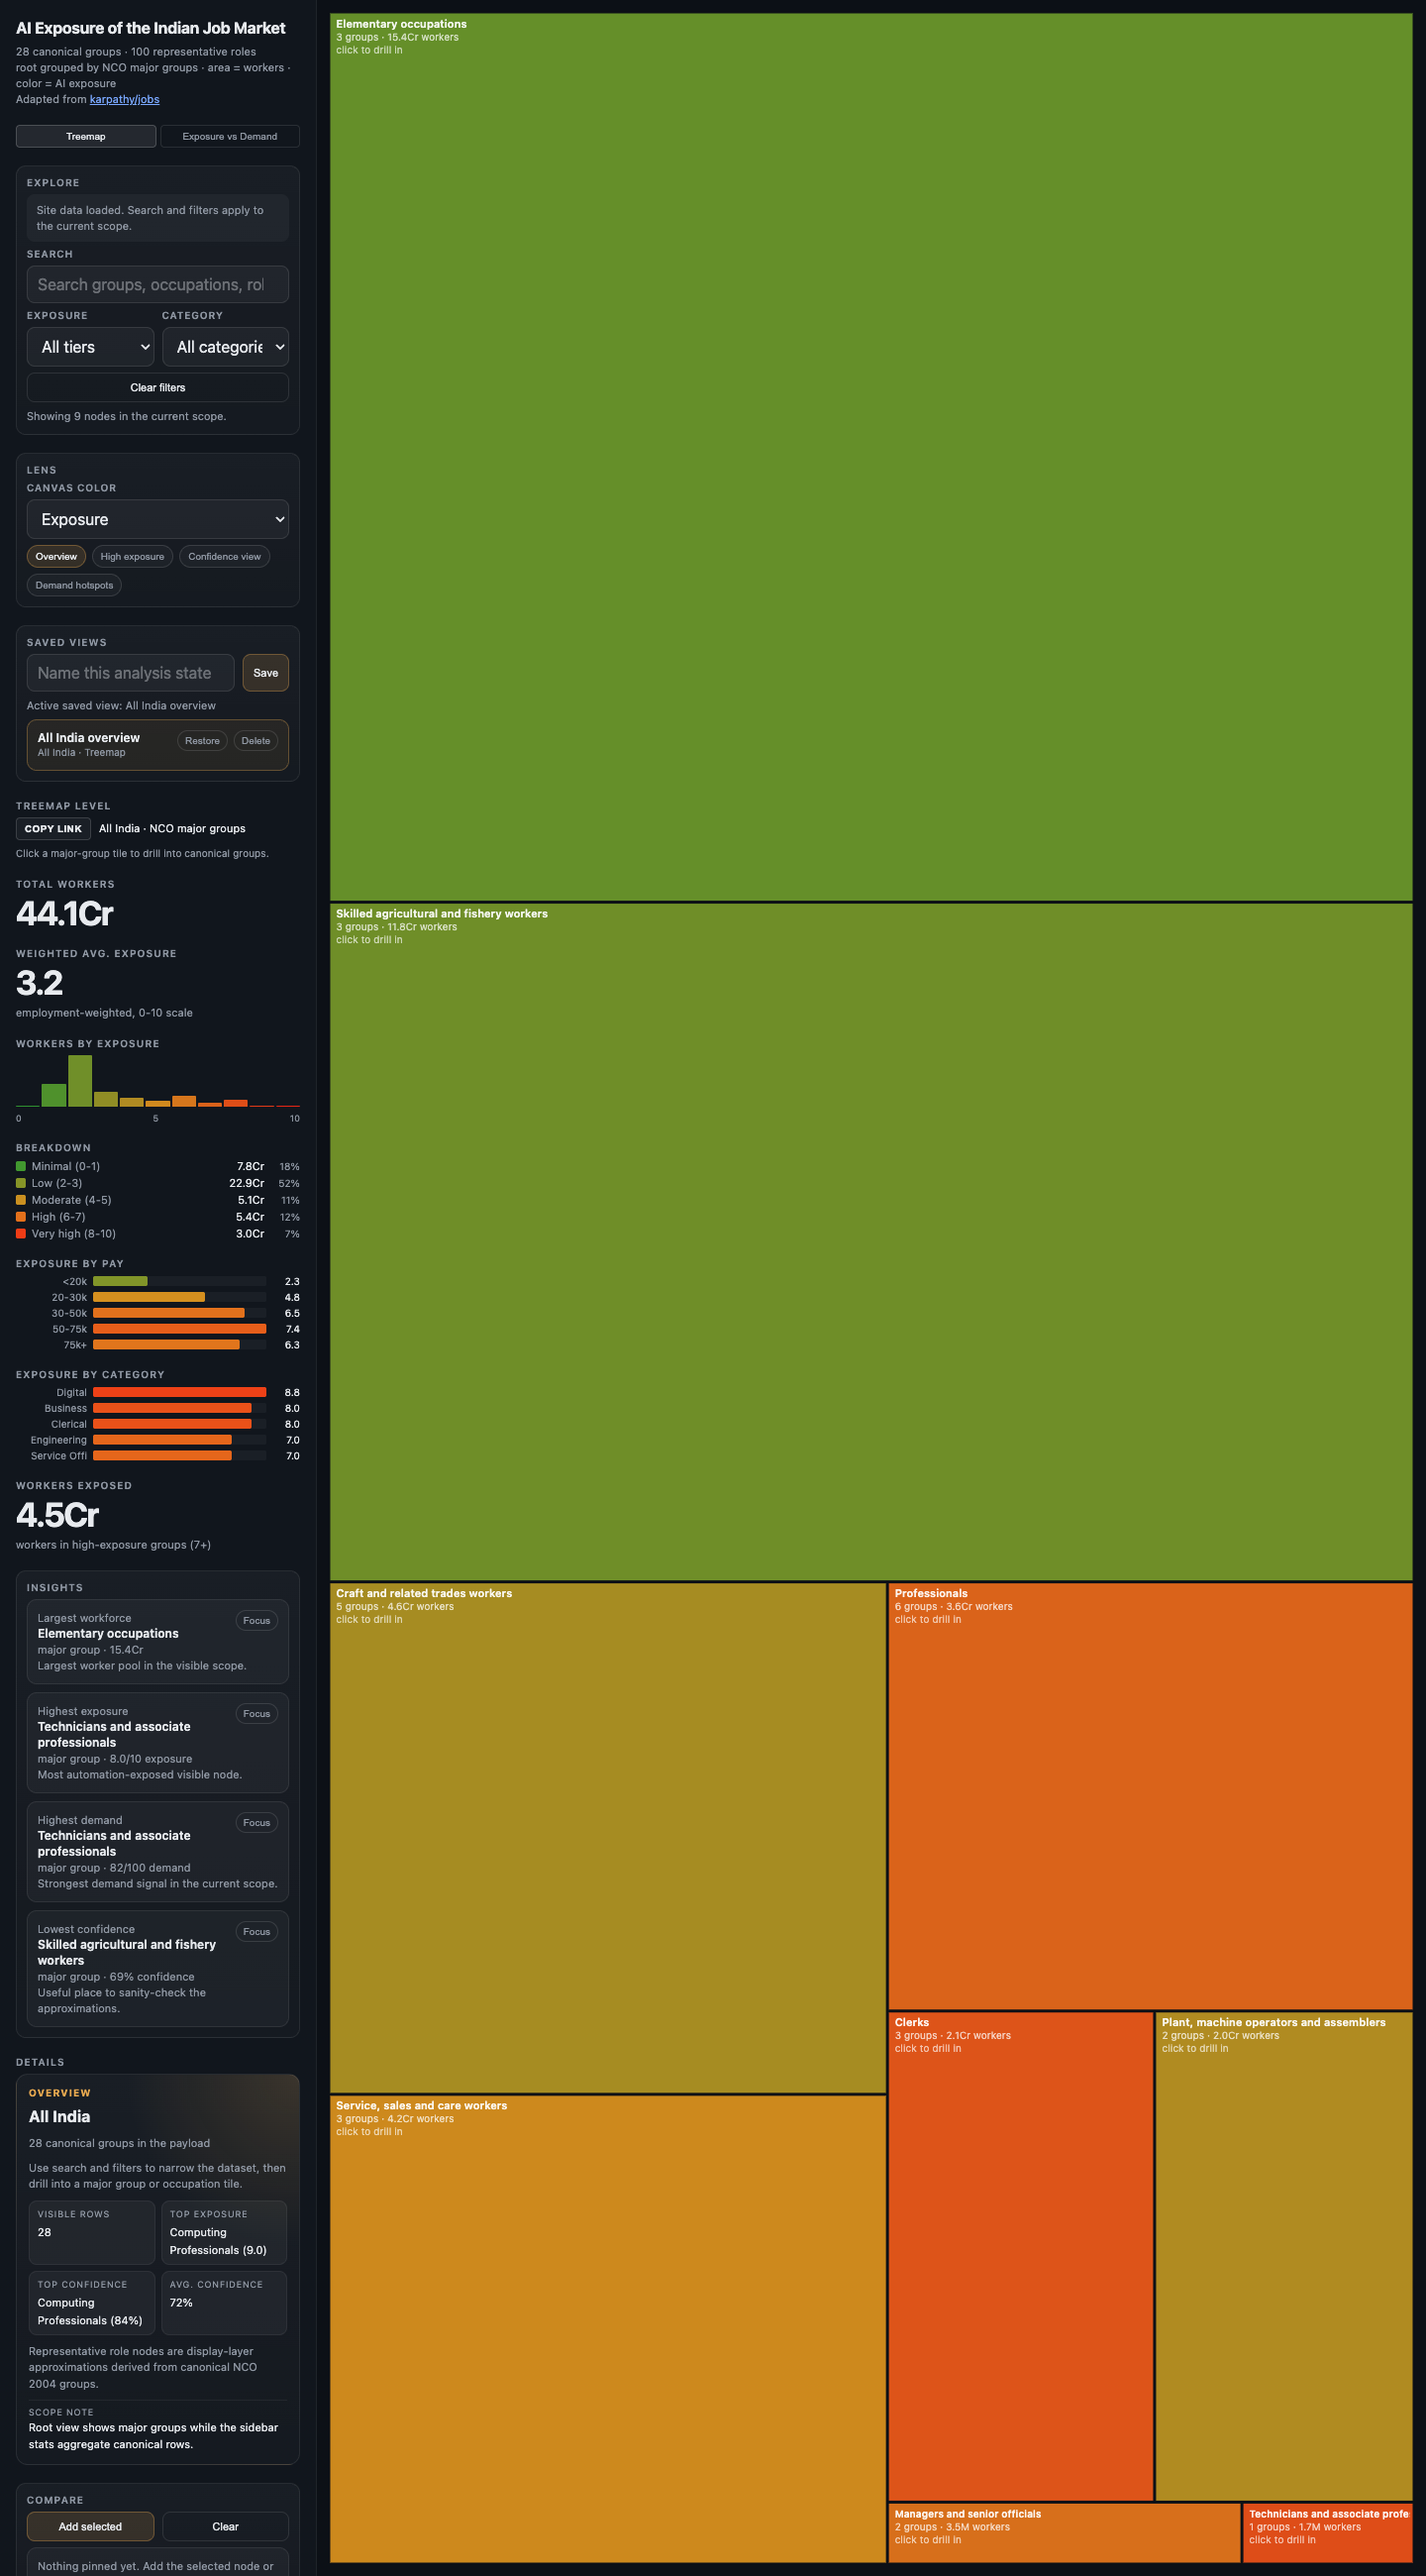
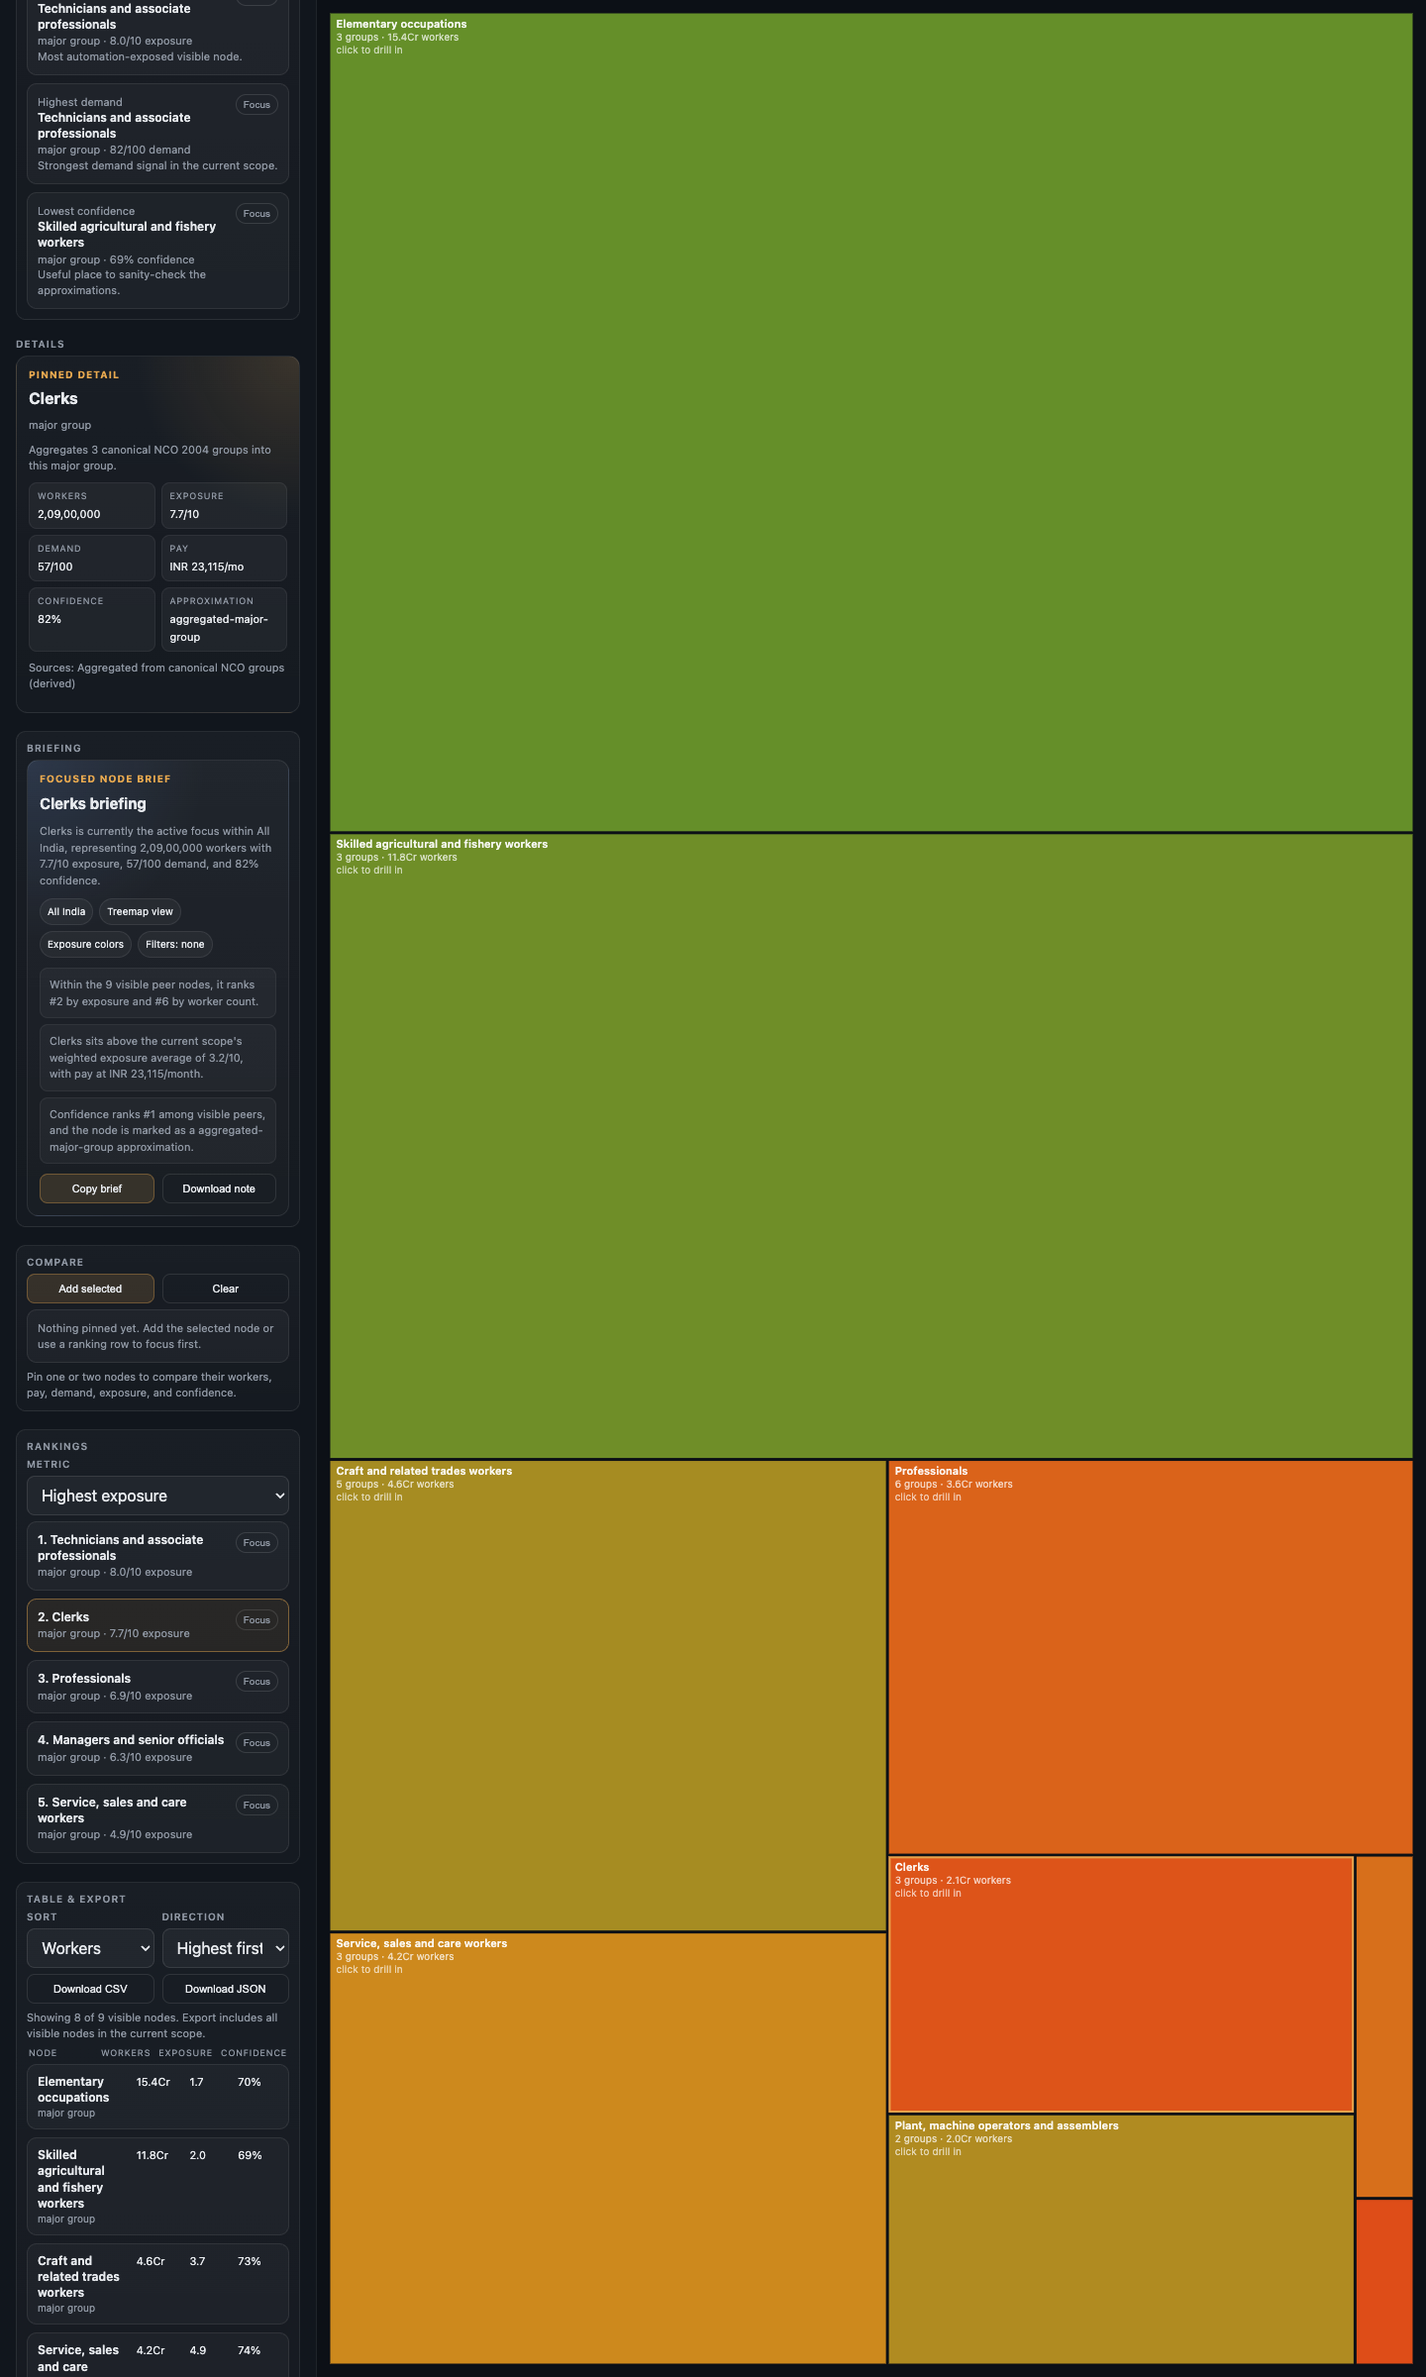
Add downloadable briefing notes to the site

diff --git a/site/index.html b/site/index.html
@@ -245,6 +245,60 @@ a { color: #79a7ff; }
   gap: 6px;
 }
 
+.briefing-card {
+  display: flex;
+  flex-direction: column;
+  gap: 10px;
+  padding: 12px;
+  border-radius: 12px;
+  border: 1px solid rgba(255,255,255,0.08);
+  background:
+    radial-gradient(circle at top left, rgba(121,167,255,0.14), transparent 34%),
+    linear-gradient(180deg, rgba(255,255,255,0.035), rgba(255,255,255,0.015));
+}
+
+.briefing-title {
+  font-size: 15px;
+  line-height: 1.3;
+  font-weight: 700;
+}
+
+.briefing-copy,
+.briefing-points,
+.briefing-meta {
+  font-size: 11px;
+  line-height: 1.5;
+  color: var(--fg2);
+}
+
+.briefing-points {
+  display: flex;
+  flex-direction: column;
+  gap: 6px;
+}
+
+.briefing-point {
+  padding: 8px 9px;
+  border-radius: 8px;
+  background: rgba(255,255,255,0.035);
+  border: 1px solid rgba(255,255,255,0.06);
+}
+
+.briefing-meta {
+  display: flex;
+  flex-wrap: wrap;
+  gap: 6px;
+}
+
+.briefing-chip {
+  padding: 5px 7px;
+  border-radius: 999px;
+  background: rgba(255,255,255,0.04);
+  border: 1px solid rgba(255,255,255,0.08);
+  color: var(--fg);
+  font-size: 10px;
+}
+
 .stat-big {
   font-size: 34px;
   line-height: 1;
@@ -906,6 +960,21 @@ canvas#canvas {
   </div>
 
   <div class="section section-card">
+    <h3>Briefing</h3>
+    <div class="briefing-card" id="briefingCard">
+      <div class="detail-kicker" id="briefingKicker">Auto-generated brief</div>
+      <div class="briefing-title" id="briefingTitle">Preparing briefing…</div>
+      <div class="briefing-copy" id="briefingSummary">Waiting for the site payload.</div>
+      <div class="briefing-meta" id="briefingMeta"></div>
+      <div class="briefing-points" id="briefingPoints"></div>
+      <div class="action-row">
+        <button class="ghost-button accent" id="copyBriefing">Copy brief</button>
+        <button class="ghost-button" id="downloadBriefing">Download note</button>
+      </div>
+    </div>
+  </div>
+
+  <div class="section section-card">
     <h3>Compare</h3>
     <div class="action-row">
       <button class="ghost-button accent" id="addToCompare">Add selected</button>
@@ -1426,6 +1495,17 @@ function confidencePct(node) {
   return `${Math.round((node.exposure_confidence || 0) * 100)}%`;
 }
 
+function pct(numerator, denominator) {
+  if (!denominator) return "0%";
+  return `${Math.round((numerator / denominator) * 100)}%`;
+}
+
+function rankForMetric(node, metric, rows) {
+  const ordered = rows.slice().sort((a, b) => metricValue(b, metric) - metricValue(a, metric));
+  const index = ordered.findIndex(item => item.node_id === node.node_id);
+  return index >= 0 ? index + 1 : null;
+}
+
 function renderOverviewDetails() {
   const detailKicker = document.getElementById("detailKicker");
   const detailTitle = document.getElementById("detailTitle");
@@ -1534,6 +1614,10 @@ function renderDetails() {
   renderNodeDetails(node);
 }
 
+function briefingContextNode() {
+  return selectedNode() || currentScopeNode() || null;
+}
+
 function metricValue(node, metric) {
   if (metric === "workers") return node.employment_workers || 0;
   if (metric === "demand") return node.demand_index || 0;
@@ -1546,6 +1630,122 @@ function metricLabel(node, metric) {
   if (metric === "demand") return `${node.demand_index}/100 demand`;
   if (metric === "confidence") return `${confidencePct(node)} confidence`;
   return `${node.exposure.toFixed(1)}/10 exposure`;
+}
+
+function scopeDescriptionText() {
+  const scope = currentScopeNode();
+  if (!scope) return "All India";
+  return `All India / ${pathNodes().map(node => node.title).join(" / ")}`;
+}
+
+function activeFilterSummary() {
+  const bits = [];
+  if (searchQuery) bits.push(`search=${searchQuery}`);
+  if (exposureFilter) bits.push(`exposure=${exposureFilter}`);
+  if (categoryFilter) bits.push(`category=${categoryFilter}`);
+  return bits.length ? bits.join(", ") : "none";
+}
+
+function briefingData() {
+  const focus = briefingContextNode();
+  const rows = statsRows();
+  const visibleNodes = currentDisplayNodes();
+  const totalWorkers = rows.reduce((sum, row) => sum + (row.employment_workers || 0), 0);
+  const weightedExposure = weightedAverage(rows, "exposure");
+  const weightedConfidence = weightedAverage(rows, "exposure_confidence");
+  const highExposureWorkers = rows.filter(row => row.exposure >= 7).reduce((sum, row) => sum + (row.employment_workers || 0), 0);
+  const topExposure = topNodeBy(rows, "exposure");
+  const topDemand = topNodeBy(rows, "demand");
+  const lowConfidence = rows.slice().sort((a, b) => (a.exposure_confidence || 0) - (b.exposure_confidence || 0))[0] || null;
+  const compareRows = compareIds.map(id => nodesById.get(id)).filter(Boolean);
+  const chips = [
+    scopeDescriptionText(),
+    currentView === "scatter" ? "Scatter view" : "Treemap view",
+    colorMode === "confidence" ? "Confidence colors" : "Exposure colors",
+    `Filters: ${activeFilterSummary()}`
+  ];
+
+  if (!focus) {
+    const summary = `This view covers ${rows.length} visible records representing ${fmtWorkersLong(totalWorkers)} workers with an employment-weighted AI exposure of ${weightedExposure.toFixed(1)}/10.`;
+    const bullets = [
+      highExposureWorkers
+        ? `${fmtWorkers(highExposureWorkers)} workers, or ${pct(highExposureWorkers, totalWorkers)}, sit in nodes rated 7+ for exposure in the current view.`
+        : "No workers are currently visible in 7+ exposure nodes.",
+      topExposure && topDemand
+        ? `${topExposure.title} is the most exposed visible node at ${topExposure.exposure.toFixed(1)}/10, while ${topDemand.title} carries the strongest demand signal at ${topDemand.demand_index}/100.`
+        : "No top-node comparisons are available for the current view.",
+      lowConfidence
+        ? `Average confidence is ${Math.round(weightedConfidence * 100)}%, and ${lowConfidence.title} is the weakest-confidence visible node at ${confidencePct(lowConfidence)}.`
+        : `Average confidence is ${Math.round(weightedConfidence * 100)}% in the current view.`,
+    ];
+    return {
+      kicker: activeFilterCount() ? "Filtered scope brief" : "Root scope brief",
+      title: currentScopeNode() ? `${currentScopeNode().title} snapshot` : "All India snapshot",
+      summary,
+      bullets,
+      chips,
+    };
+  }
+
+  const siblingRows = currentDisplayNodes();
+  const exposureRank = rankForMetric(focus, "exposure", siblingRows);
+  const workersRank = rankForMetric(focus, "workers", siblingRows);
+  const confidenceRank = rankForMetric(focus, "confidence", siblingRows);
+  const scopeAvgExposure = weightedAverage(rows, "exposure");
+  const compareLine = compareRows.length === 2
+    ? `${compareRows[0].title} vs ${compareRows[1].title} is pinned separately in Compare.`
+    : null;
+  const summary = `${focus.title} is currently the active focus within ${scopeDescriptionText()}, representing ${fmtWorkersLong(focus.employment_workers)} workers with ${focus.exposure.toFixed(1)}/10 exposure, ${focus.demand_index}/100 demand, and ${confidencePct(focus)} confidence.`;
+  const bullets = [
+    exposureRank && workersRank
+      ? `Within the ${siblingRows.length} visible peer nodes, it ranks #${exposureRank} by exposure and #${workersRank} by worker count.`
+      : "Peer ranking is unavailable in the current filtered view.",
+    `${focus.title} sits ${focus.exposure >= scopeAvgExposure ? "above" : "below"} the current scope's weighted exposure average of ${scopeAvgExposure.toFixed(1)}/10, with pay at ${fmtInr(focus.median_monthly_earnings_inr)}/month.`,
+    confidenceRank
+      ? `Confidence ranks #${confidenceRank} among visible peers, and the node is marked as a ${focus.approximation_level} approximation${focus.node_kind === "role" && focus.role_share != null ? ` with an estimated ${Math.round(focus.role_share * 100)}% share of its parent group` : ""}.`
+      : `This node is marked as a ${focus.approximation_level} approximation.`,
+  ];
+  if (compareLine) bullets.push(compareLine);
+  return {
+    kicker: "Focused node brief",
+    title: `${focus.title} briefing`,
+    summary,
+    bullets,
+    chips,
+  };
+}
+
+function briefingMarkdown() {
+  writeUrlState();
+  const data = briefingData();
+  return [
+    "# AI Exposure Briefing",
+    "",
+    `## ${data.title}`,
+    "",
+    data.summary,
+    "",
+    "### Key Points",
+    ...data.bullets.map(point => `- ${point}`),
+    "",
+    "### Context",
+    ...data.chips.map(chip => `- ${chip}`),
+    `- Link: ${window.location.href}`,
+    ""
+  ].join("\n");
+}
+
+function renderBriefing() {
+  const data = briefingData();
+  document.getElementById("briefingKicker").textContent = data.kicker;
+  document.getElementById("briefingTitle").textContent = data.title;
+  document.getElementById("briefingSummary").textContent = data.summary;
+  document.getElementById("briefingMeta").innerHTML = data.chips
+    .map(chip => `<span class="briefing-chip">${chip}</span>`)
+    .join("");
+  document.getElementById("briefingPoints").innerHTML = data.bullets
+    .map(point => `<div class="briefing-point">${point}</div>`)
+    .join("");
 }
 
 function sortedVisibleNodes(metric = tableMetric, direction = tableDirection) {
@@ -2040,6 +2240,29 @@ function downloadCurrentScopeJson() {
   setStatus(`Downloaded ${rows.length} visible nodes as JSON.`, false);
 }
 
+async function copyBriefing() {
+  const markdown = briefingMarkdown();
+  try {
+    await navigator.clipboard.writeText(markdown);
+    setStatus("Copied the current briefing note.", false);
+  } catch (error) {
+    const input = document.createElement("textarea");
+    input.value = markdown;
+    document.body.appendChild(input);
+    input.select();
+    document.execCommand("copy");
+    input.remove();
+    setStatus("Copied the current briefing note.", false);
+  }
+}
+
+function downloadBriefing() {
+  const title = briefingData().title;
+  const subject = briefingContextNode()?.title || currentScopeLabel();
+  downloadText(`${fileSlug(subject)}-briefing.md`, "text/markdown;charset=utf-8", briefingMarkdown());
+  setStatus(`Downloaded briefing note for ${title}.`, false);
+}
+
 function layoutTreemap() {
   const margin = 12;
   const gap = currentScopeNode() ? 2 : 3;
@@ -2304,6 +2527,7 @@ function refresh() {
   updateResultsUI();
   computeStats();
   renderDetails();
+  renderBriefing();
   renderCompare();
   renderRankings();
   renderInsights();
@@ -2420,6 +2644,14 @@ document.getElementById("clearFilters").addEventListener("click", () => {
 
 document.getElementById("copyLink").addEventListener("click", async () => {
   await copyShareLink();
+});
+
+document.getElementById("copyBriefing").addEventListener("click", async () => {
+  await copyBriefing();
+});
+
+document.getElementById("downloadBriefing").addEventListener("click", () => {
+  downloadBriefing();
 });
 
 document.getElementById("saveCurrentView").addEventListener("click", () => {

diff --git a/README.md b/README.md
@@ -10,7 +10,7 @@ This repository is an adaptation, not a forked continuation of the upstream proj
 
 The repo now ships with a transparent **seed dataset** so the site is runnable without PLFS microdata or live NCS scraping. The production path is still the same 5-stage idea: build taxonomy, ingest labour stats, ingest demand, generate packets, score AI exposure, and ship a static treemap. The public UI now adds a denser display hierarchy of representative role nodes while keeping `nco2004_3d` as the canonical labour-market unit underneath.
 
-The current site build also includes scope-aware search, exposure/category filters, visual lenses for exposure vs confidence, browser-local saved views, clickable insight cards, a persistent details panel, pinned comparison slots, scoped ranking tables, sortable visible-node tables, one-click CSV/JSON export for the current scope, shareable deep links that restore the active view state, and clearer confidence/provenance readouts so the static payload is easier to inspect without leaving the treemap view.
+The current site build also includes scope-aware search, exposure/category filters, visual lenses for exposure vs confidence, browser-local saved views, clickable insight cards, a persistent details panel, auto-generated briefing notes for the current scope or focused node, pinned comparison slots, scoped ranking tables, sortable visible-node tables, one-click CSV/JSON export for the current scope, shareable deep links that restore the active view state, and clearer confidence/provenance readouts so the static payload is easier to inspect without leaving the treemap view.
 
 ![India treemap](jobs.png)
 
